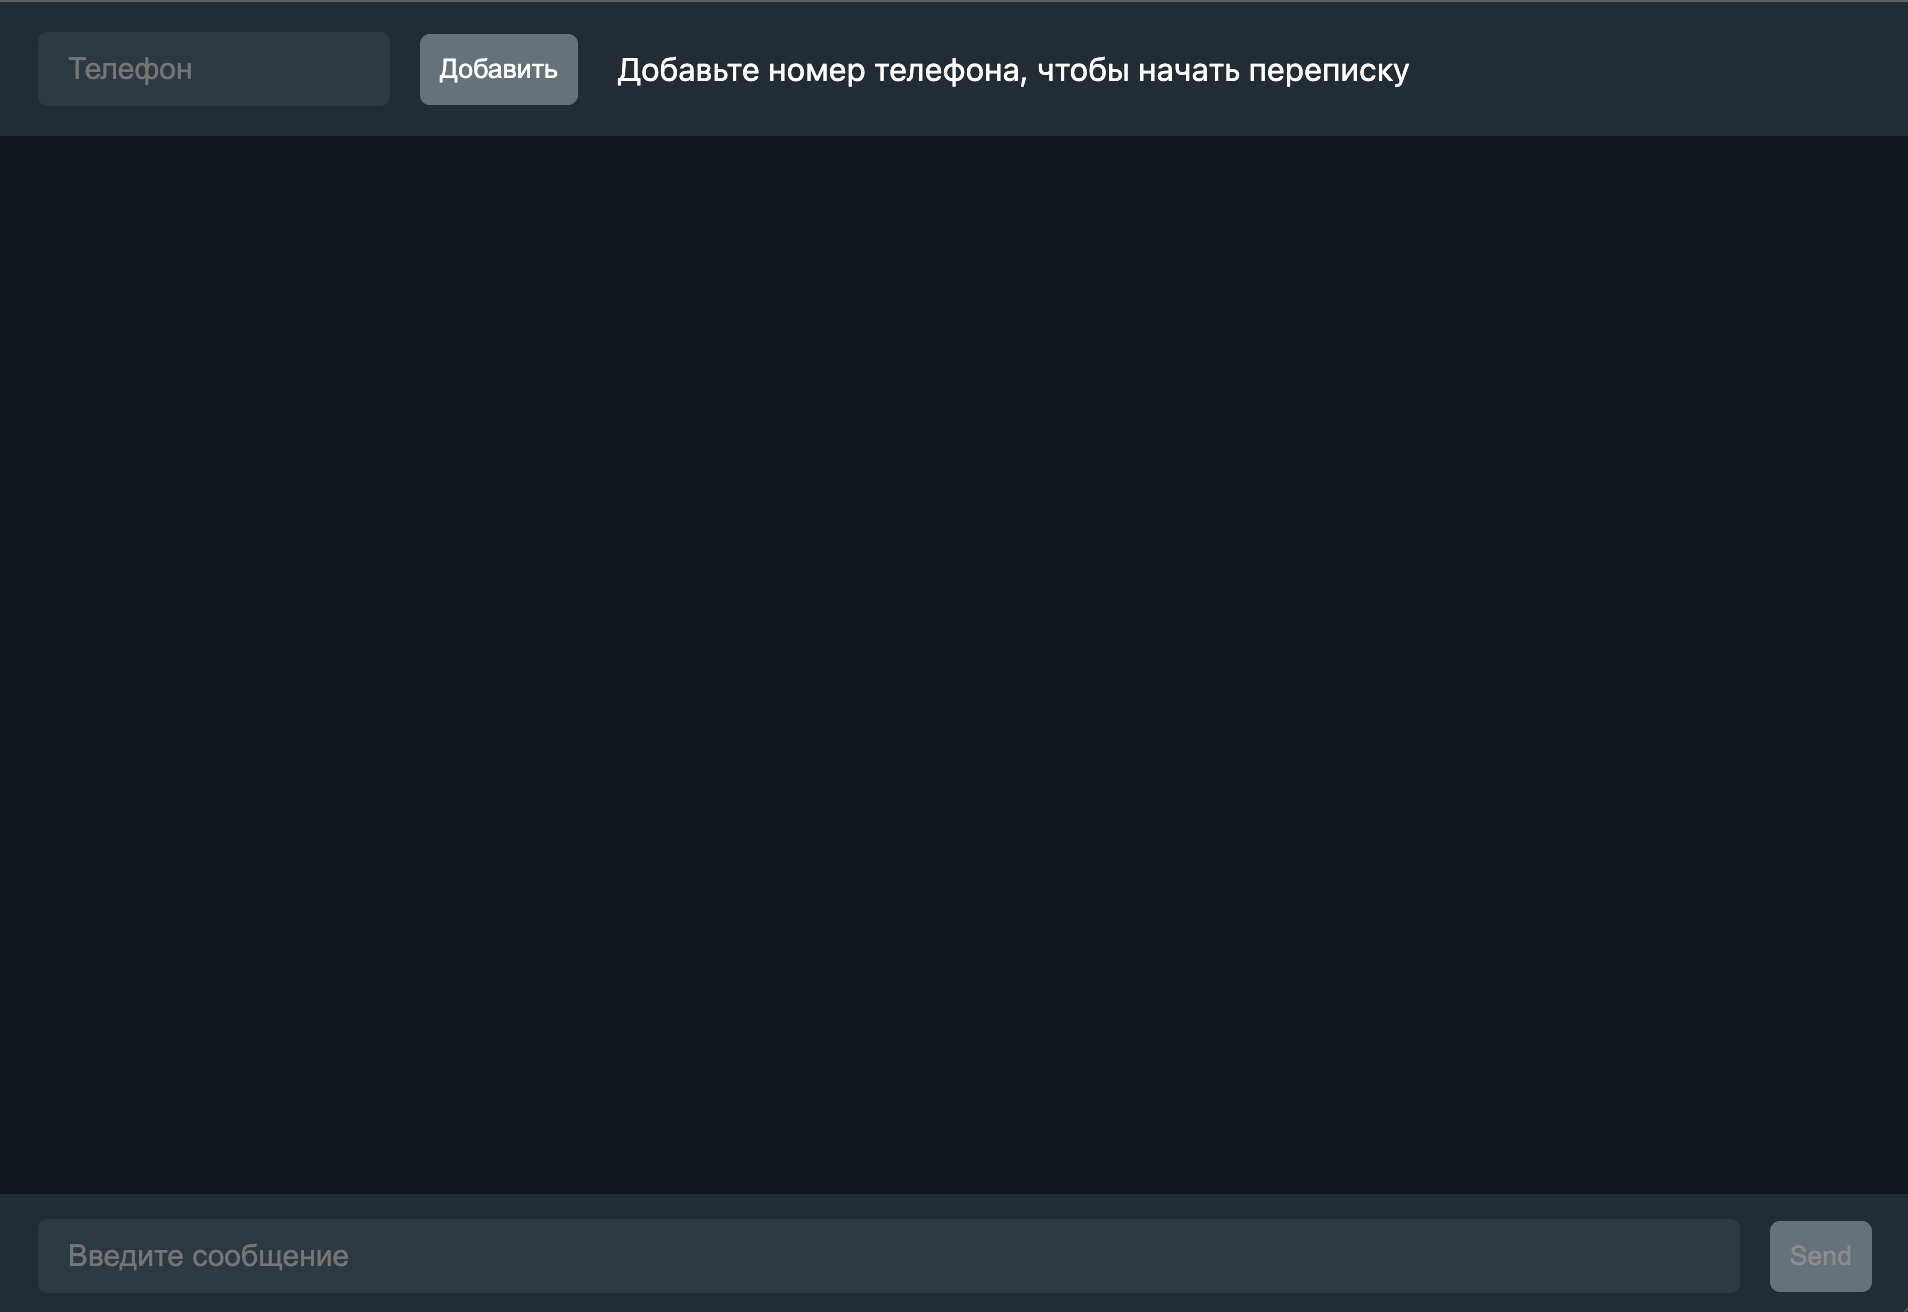
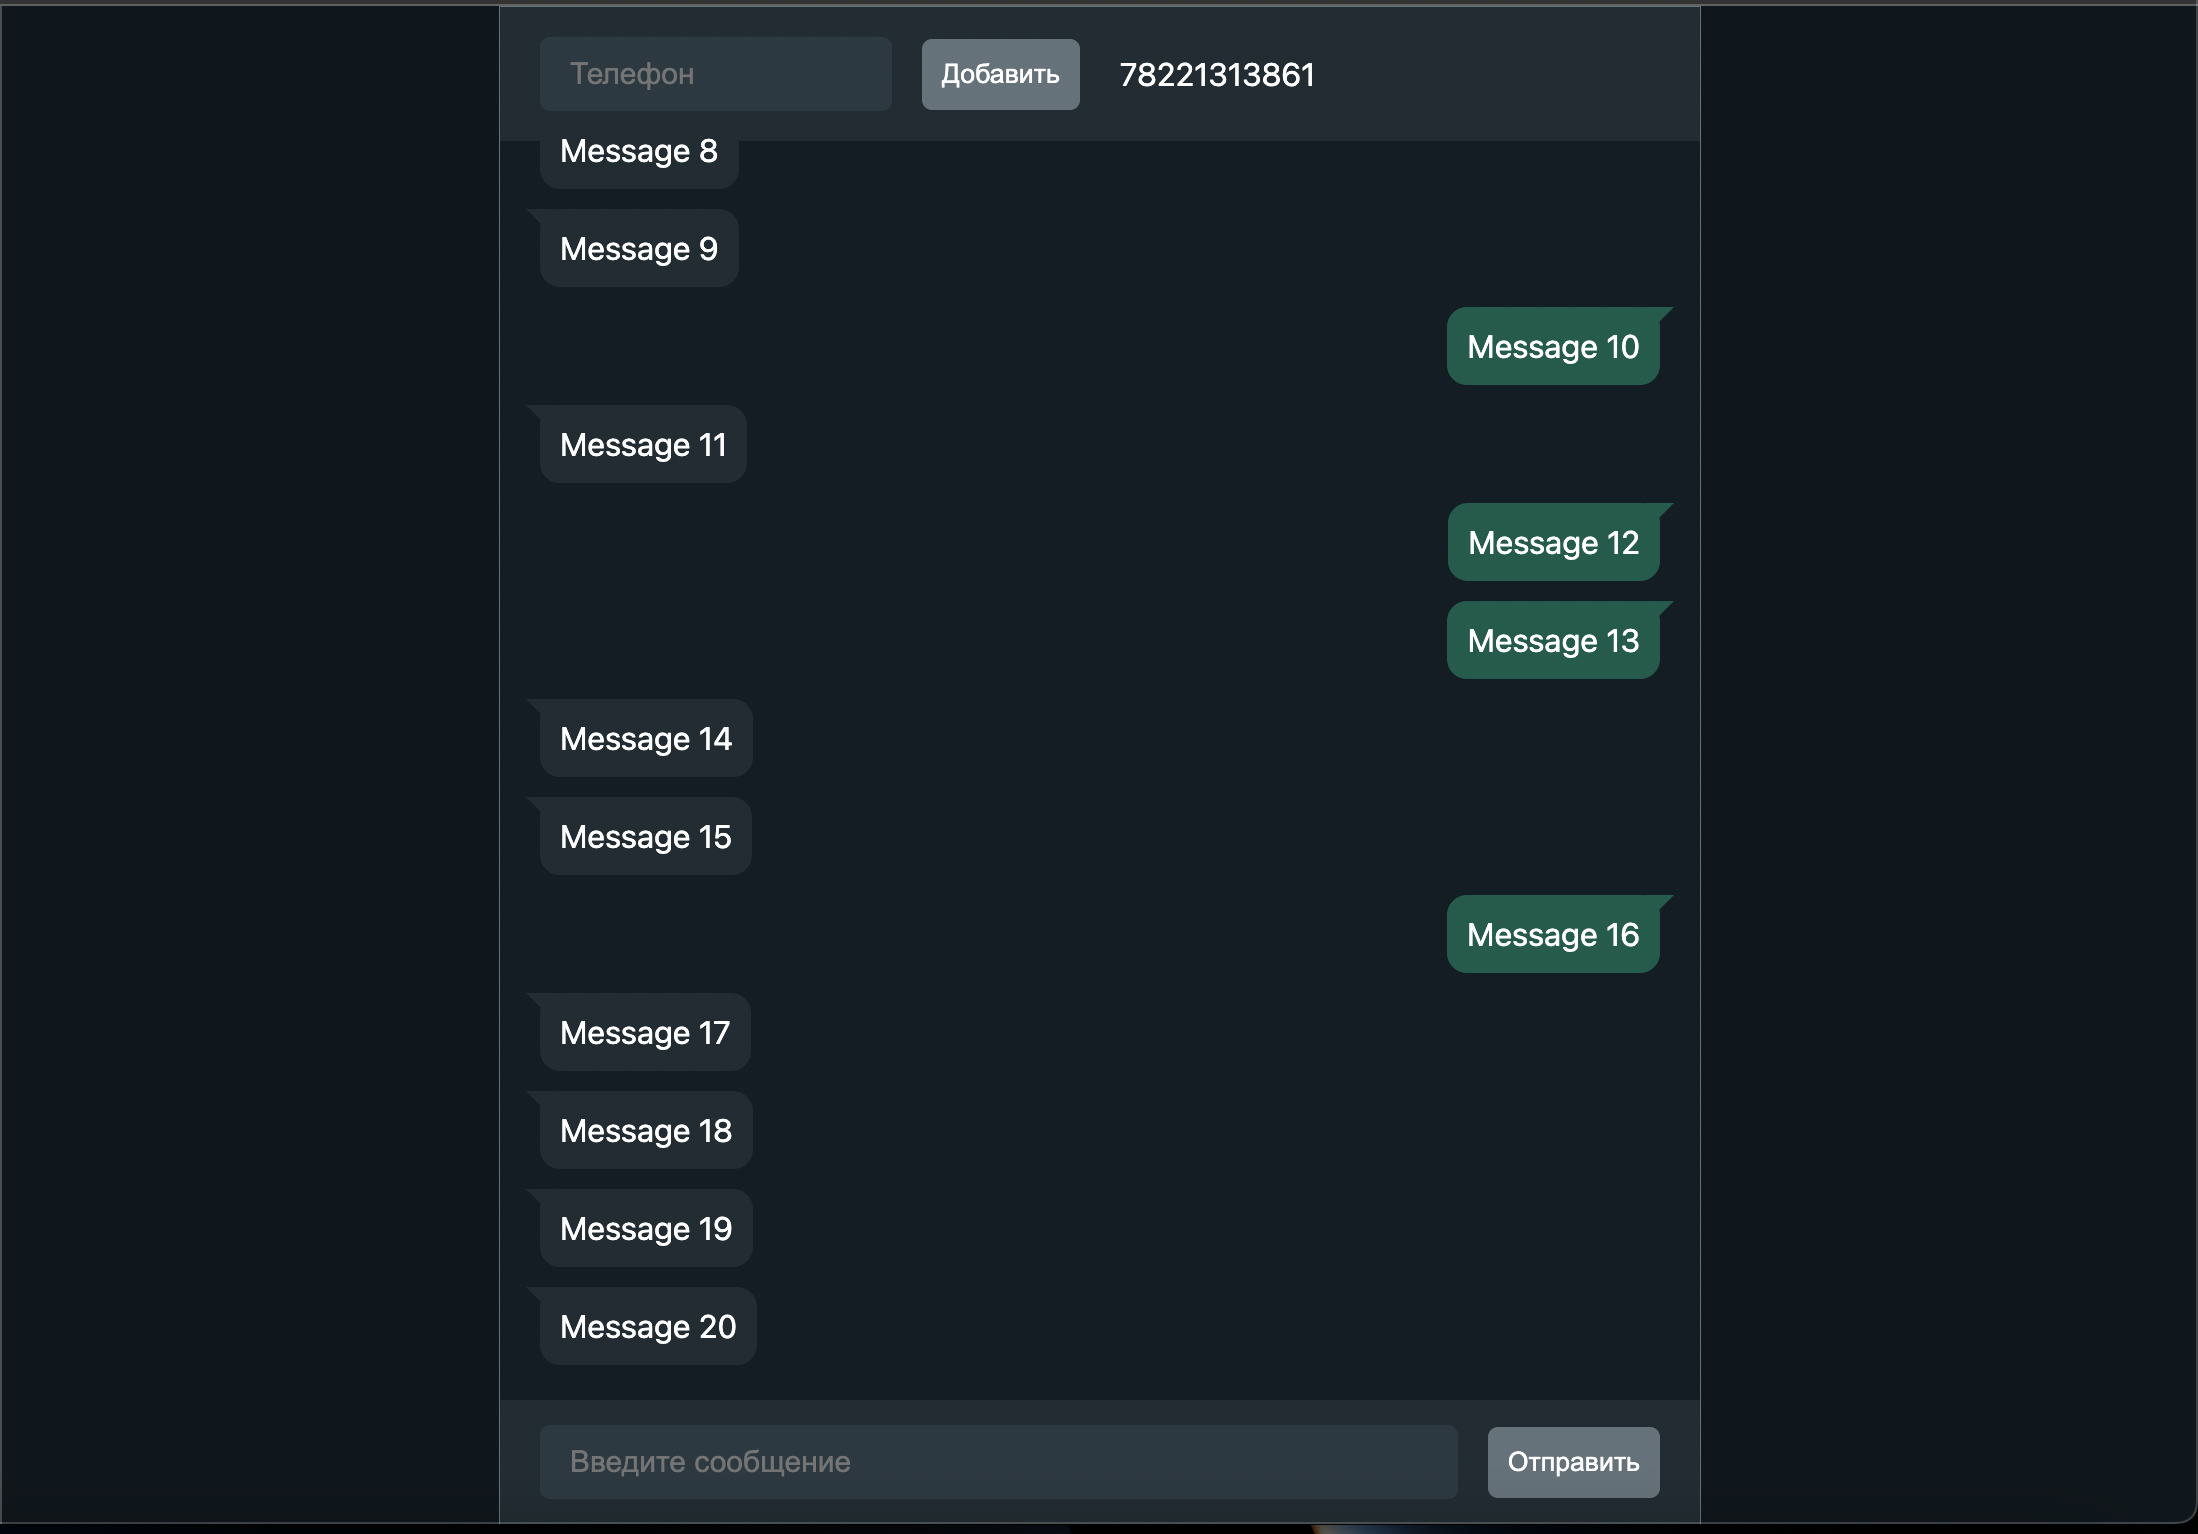
add tail to message bubble and fix login bug

diff --git a/src/components/chat/chat.styled.ts b/src/components/chat/chat.styled.ts
@@ -3,12 +3,15 @@ import styled from "styled-components";
 export const Container = styled.div`
   display: flex;
   flex-direction: column;
-  height: 100vh;
-  width: 100%;
+  height: 100%;
+  margin: 0 auto;
+  width: 600px;
+  border: 0.5px solid #63727b;
+  background-color: #121d25;
 
   &:before {
     content: "";
-    min-height: 50px;
+    min-height: 60px;
   }
 
   &:after {
@@ -23,7 +26,7 @@ export const PhoneNumber = styled.div`
   background-color: #1f2c33;
   color: #ffff;
   position: fixed;
-  width: 100%;
+  width: inherit;
 `;
 
 export const MessagesContainer = styled.div`
@@ -56,6 +59,28 @@ export const MessageBubble = styled.div<{ sender: "user" | "recipient" }>`
   padding: 10px;
   border-radius: 10px;
   max-width: 70%;
+  position: relative;
+
+  &:after {
+    content: "";
+    position: absolute;
+    ${({ sender }) => (sender === "user" ? "right: 13px;" : "left: 13px;")}
+    top: 26%;
+    width: 0;
+    height: 0;
+    border: ${({ sender }) =>
+      sender === "user"
+        ? "15px solid transparent;"
+        : "15px solid transparent;"} ${({ sender }) =>
+  sender === "user"
+    ? "border-left-color: #015c4b;"
+    : "border-right-color: #1f2c33;"} ${({ sender }) =>
+  sender === "user" ? "border-right: 0;" : "border-left: 0;"}
+    border-top-width: 0;
+    margin-top: -10px;
+    ${({ sender }) =>
+      sender === "user" ? "margin-right: -20px;" : "margin-left: -20px;"}
+  }
 `;
 
 export const Form = styled.form`
@@ -64,7 +89,7 @@ export const Form = styled.form`
   padding: 5px 20px;
   position: fixed;
   bottom: 0;
-  width: 100%;
+  width: inherit;
   min-height: 62px;
   background-color: #1f2c33;
   box-sizing: border-box;

diff --git a/src/components/chat/message-requests.ts b/src/components/chat/message-requests.ts
@@ -1,10 +1,10 @@
 import axios from "axios";
 
-const idInstance = localStorage.getItem("idInstance");
-const apiTokenInstance = localStorage.getItem("apiTokenInstance");
 const baseURL = "https://api.green-api.com";
 
 export const sendMessage = async (phoneNumber: string, message: string) => {
+  const idInstance = localStorage.getItem("idInstance");
+  const apiTokenInstance = localStorage.getItem("apiTokenInstance");
   try {
     const response = await axios.post(
       `${baseURL}/waInstance${idInstance}/SendMessage/${apiTokenInstance}`,
@@ -20,6 +20,8 @@ export const sendMessage = async (phoneNumber: string, message: string) => {
 };
 
 export const getMessage = async () => {
+  const idInstance = localStorage.getItem("idInstance");
+  const apiTokenInstance = localStorage.getItem("apiTokenInstance");
   try {
     const response = await axios.get(
       `${baseURL}/waInstance${idInstance}/ReceiveNotification/${apiTokenInstance}`
@@ -31,6 +33,8 @@ export const getMessage = async () => {
 };
 
 export const deleteMessage = async (receiptId: string) => {
+  const idInstance = localStorage.getItem("idInstance");
+  const apiTokenInstance = localStorage.getItem("apiTokenInstance");
   try {
     await axios.delete(
       `${baseURL}/waInstance${idInstance}/DeleteNotification/${apiTokenInstance}/${receiptId}`

diff --git a/src/components/login-form/login-form.tsx b/src/components/login-form/login-form.tsx
@@ -1,4 +1,4 @@
-import React, { useEffect, useState } from "react";
+import React, { useState } from "react";
 import {
   Button,
   Container,
@@ -25,14 +25,6 @@ const LoginForm: React.FC<LoginFormProps> = ({ onLogin }) => {
   const [idError, setIdError] = useState(false);
   const [apiTokenError, setApiTokenError] = useState(false);
 
-  useEffect(() => {
-    localStorage.setItem("idInstance", idInstance);
-  }, [idInstance]);
-
-  useEffect(() => {
-    localStorage.setItem("apiTokenInstance", apiTokenInstance);
-  }, [apiTokenInstance]);
-
   const handleSubmit = (event: React.FormEvent<HTMLFormElement>) => {
     event.preventDefault();
     if (idInstance.trim() === "") {
@@ -46,6 +38,8 @@ const LoginForm: React.FC<LoginFormProps> = ({ onLogin }) => {
     getStateInstance(idInstance, apiTokenInstance)
       .then((data) => {
         if (data && data.stateInstance === "authorized") {
+          localStorage.setItem("idInstance", idInstance);
+          localStorage.setItem("apiTokenInstance", apiTokenInstance);
           onLogin();
         } else {
           setIdError(true);

diff --git a/src/components/chat/chat.tsx b/src/components/chat/chat.tsx
@@ -111,7 +111,7 @@ const Chat: React.FC = () => {
           onChange={handleInputChange}
         />
         <Button type="submit" disabled={!activePhoneNumber}>
-          Send
+          Отправить
         </Button>
       </Form>
     </Container>
